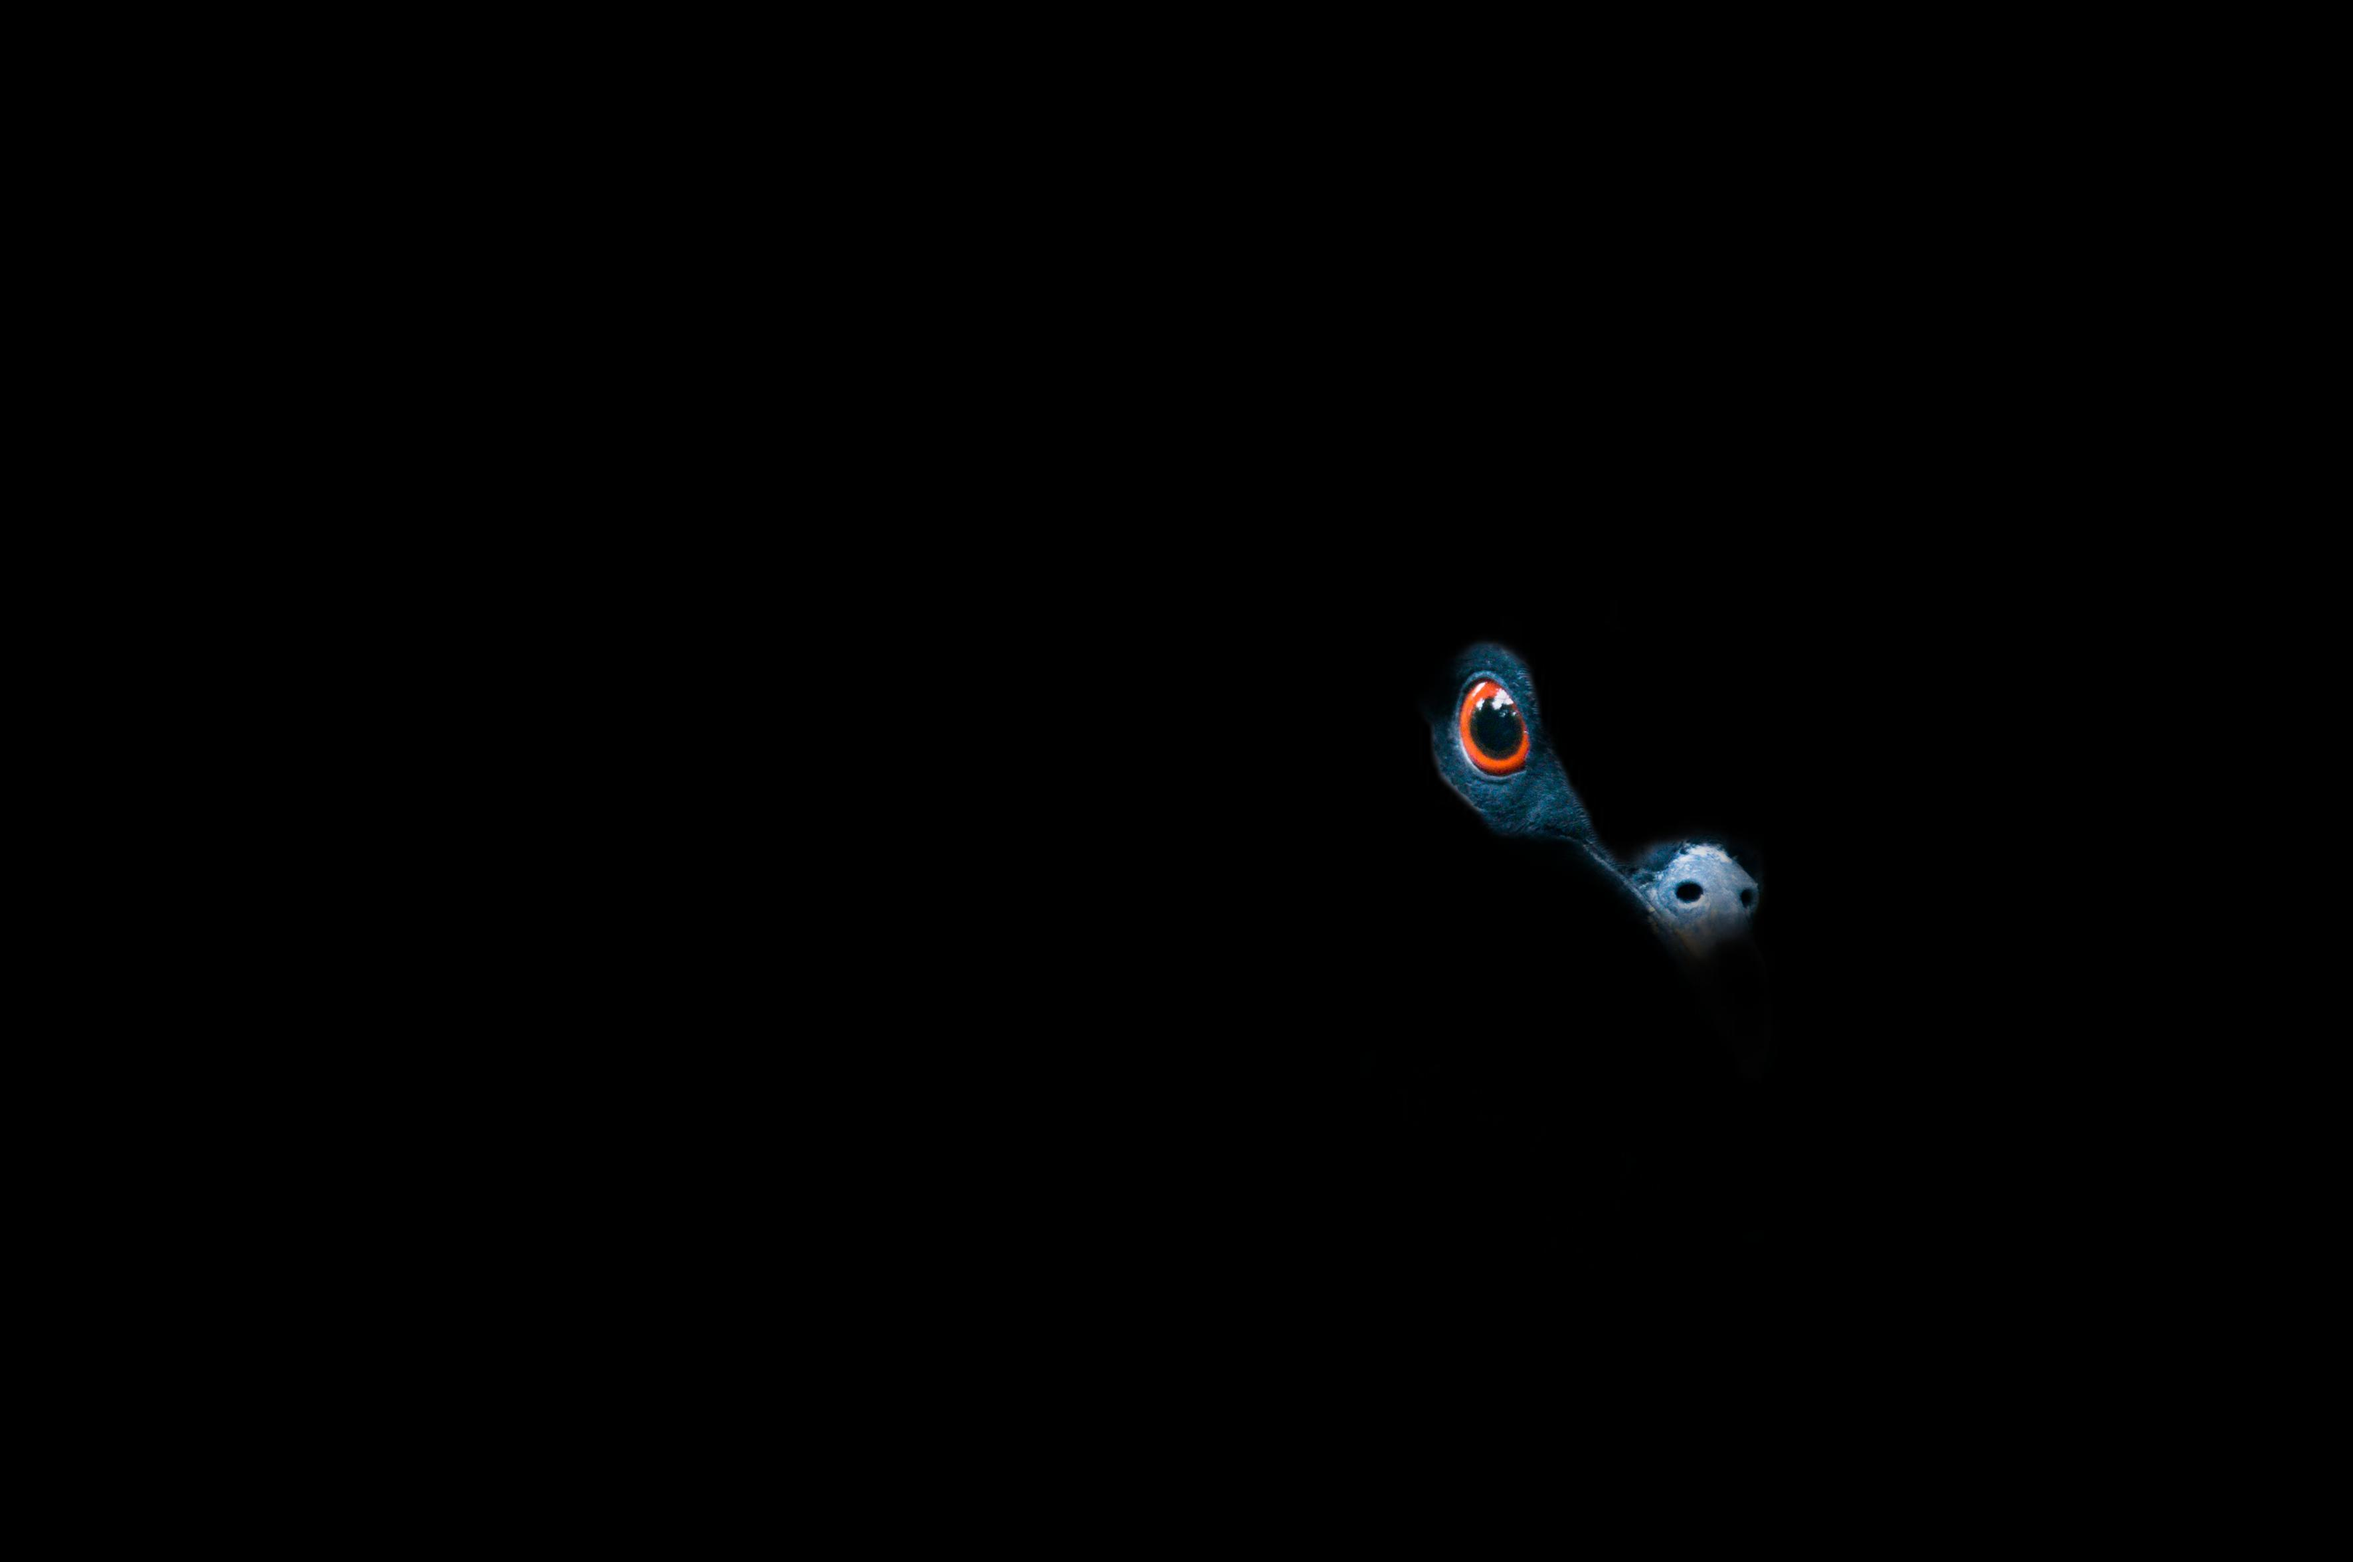
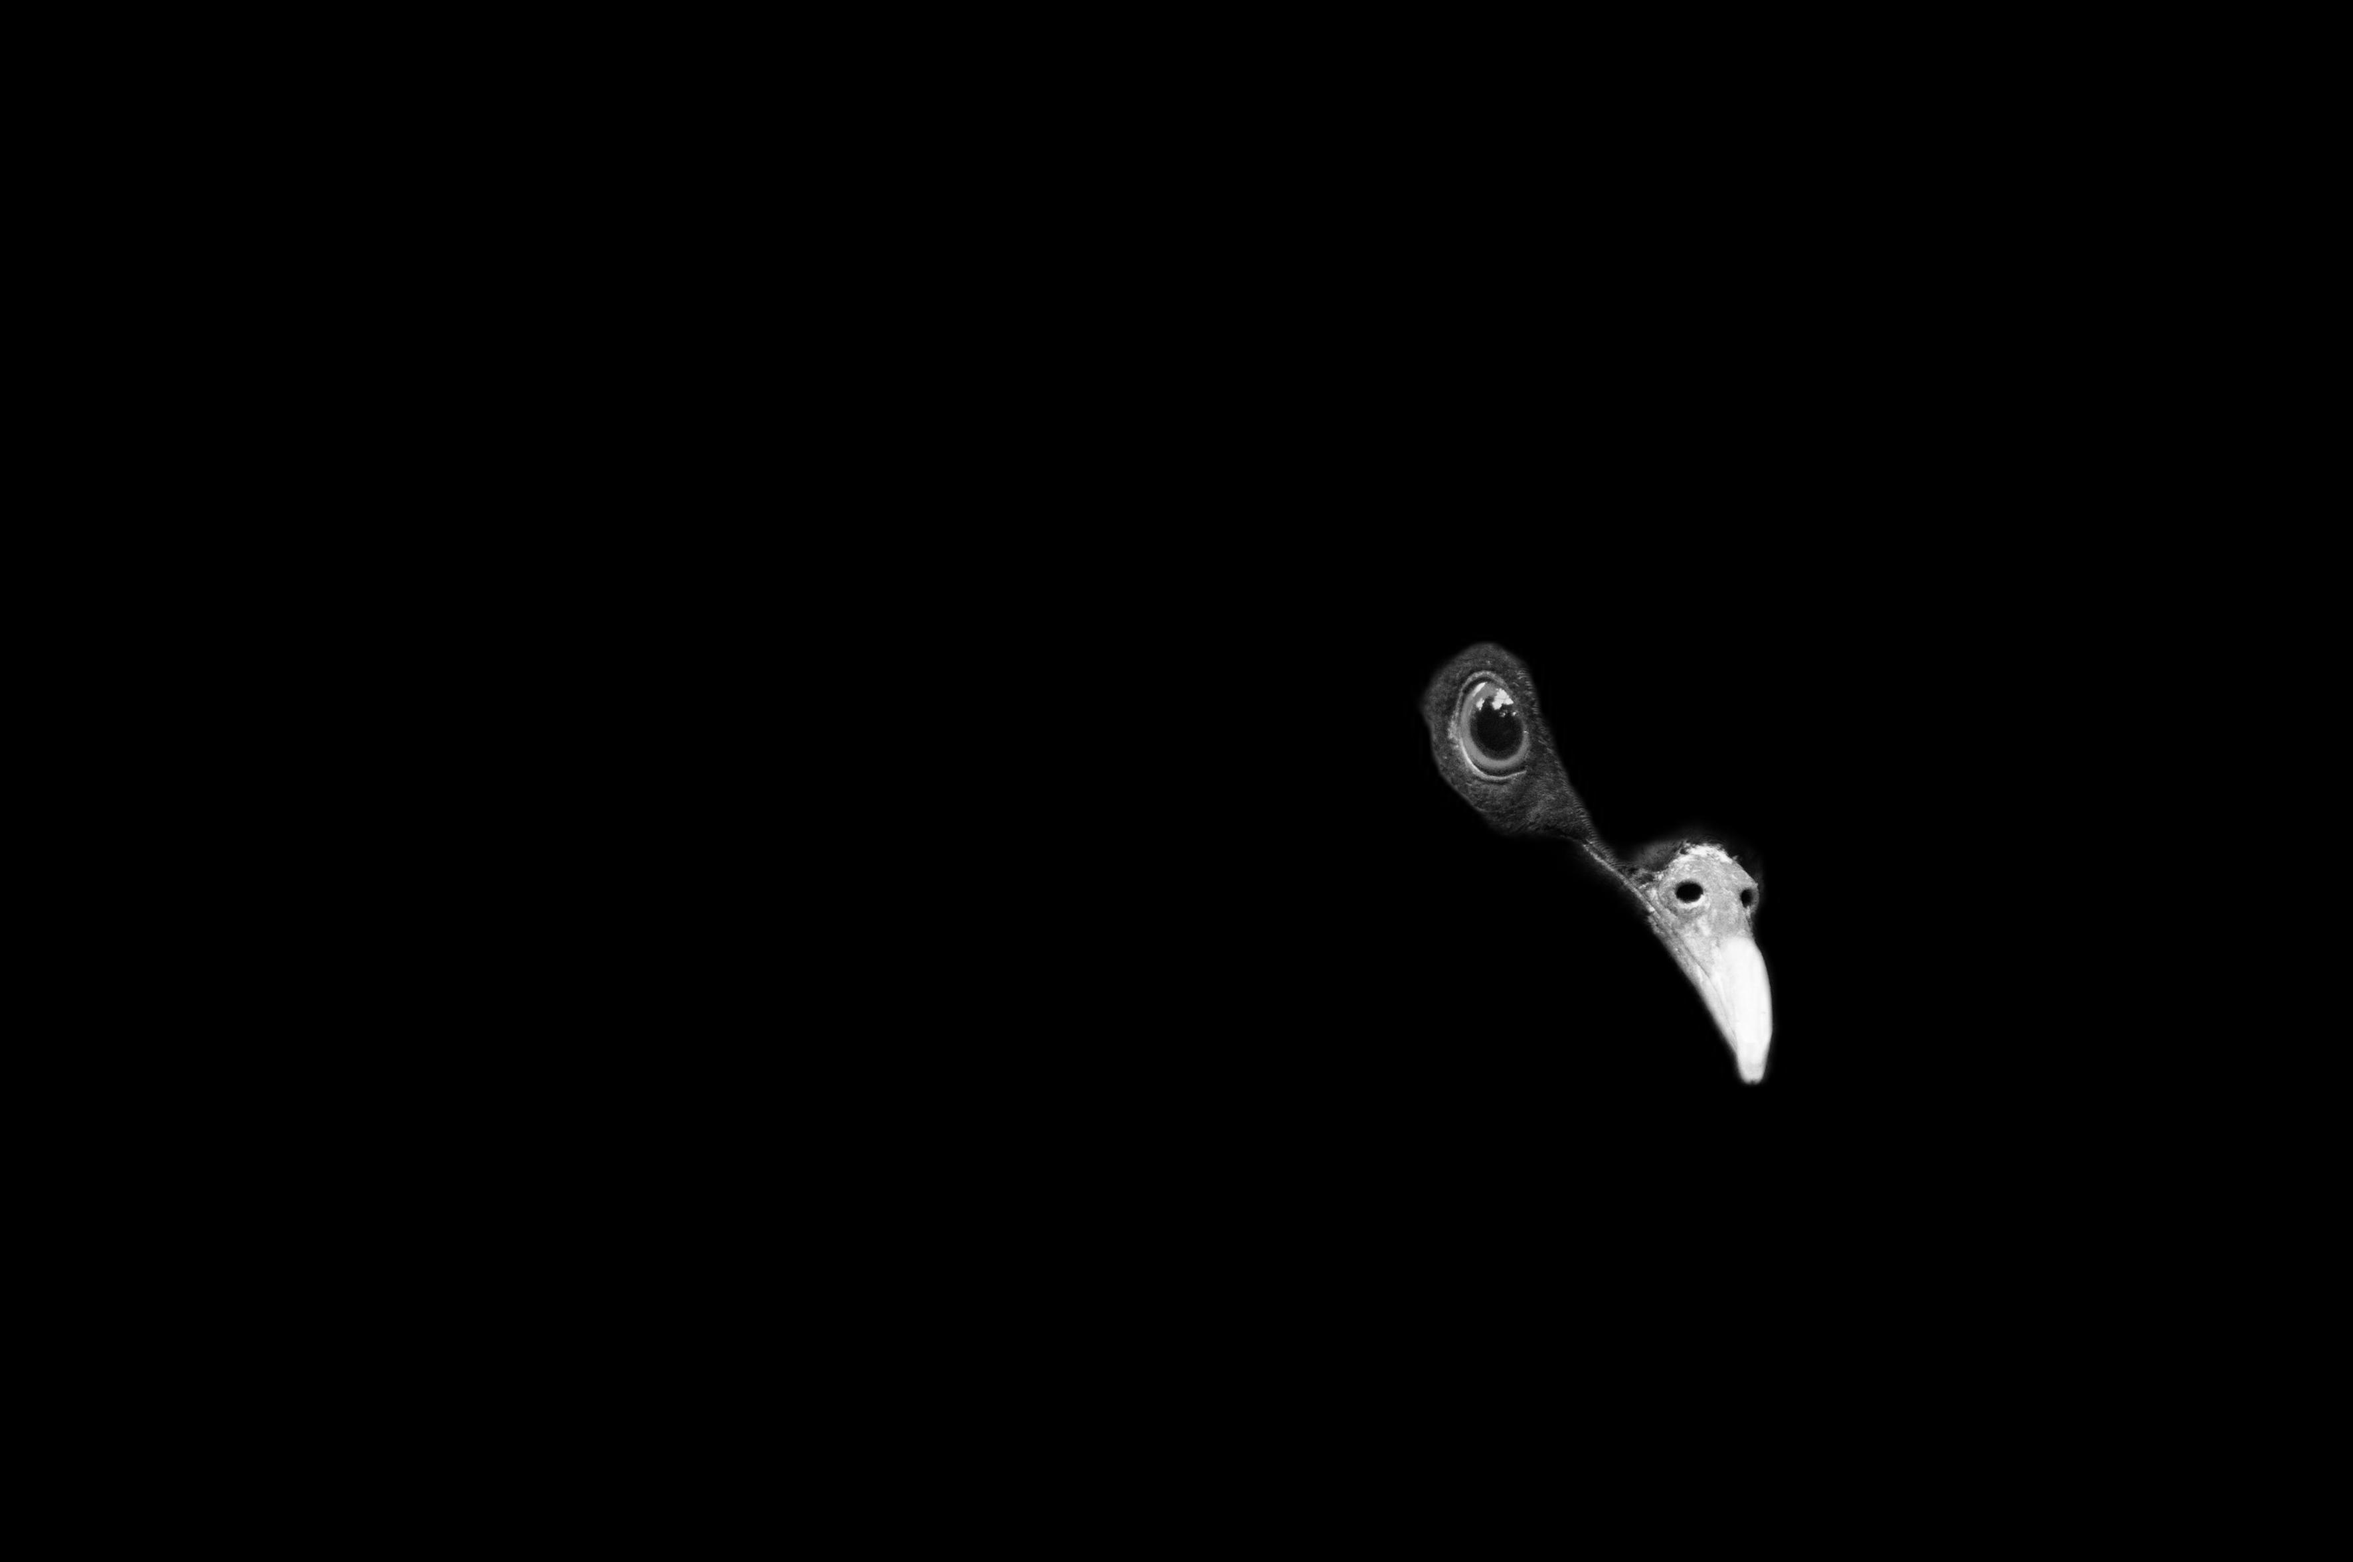
removeusando e imprime passo a passo rembg

Changed region(s): [[0.5899, 0.4033, 0.7762, 0.6825]]

diff --git a/codigo/removefundotodas.py b/codigo/removefundotodas.py
@@ -1,6 +1,7 @@
 from rembg import remove
 from PIL import Image
 import os
+import matplotlib.pyplot as plt
 
 # Diretórios de entrada e saída
 input_dir = 'ImagensPDI/'  # Diretório das imagens de entrada
@@ -11,18 +12,31 @@ os.makedirs(output_dir, exist_ok=True)
 
 # Itera sobre todos os arquivos do diretório de entrada
 for filename in os.listdir(input_dir):
-    # Verifica se o arquivo é uma imagem
     if filename.endswith(('.png', '.jpg', '.jpeg')):
-        # Caminho completo da imagem de entrada e de saída
         input_path = os.path.join(input_dir, filename)
         output_path = os.path.join(output_dir, filename)
 
-        # Carrega a imagem e remove o fundo
-        imagem = Image.open(input_path)
+        # Carrega a imagem e converte para escala de cinza
+        imagem = Image.open(input_path).convert("L")
+        plt.imshow(imagem, cmap='gray')
+        plt.title(f"Imagem em Cinza: {filename}")
+        plt.axis('off')
+        plt.show()
+
+        # Remove o fundo
         imagemremovida = remove(imagem)
+        plt.imshow(imagemremovida)
+        plt.title(f"Imagem sem Fundo: {filename}")
+        plt.axis('off')
+        plt.show()
 
-        # Converte para RGB antes de salvar como JPEG
-        imagemremovida = imagemremovida.convert("RGB")
-        imagemremovida.save(output_path)
+        # Converte para RGB e exibe colorida
+        imagemremovida_rgb = imagemremovida.convert("RGB")
+        plt.imshow(imagemremovida_rgb)
+        plt.title(f"Imagem Colorida Final: {filename}")
+        plt.axis('off')
+        plt.show()
 
+        # Salva a imagem final sem fundo em RGB
+        imagemremovida_rgb.save(output_path)
         print(f'Imagem {filename} processada e salva em {output_path}')
